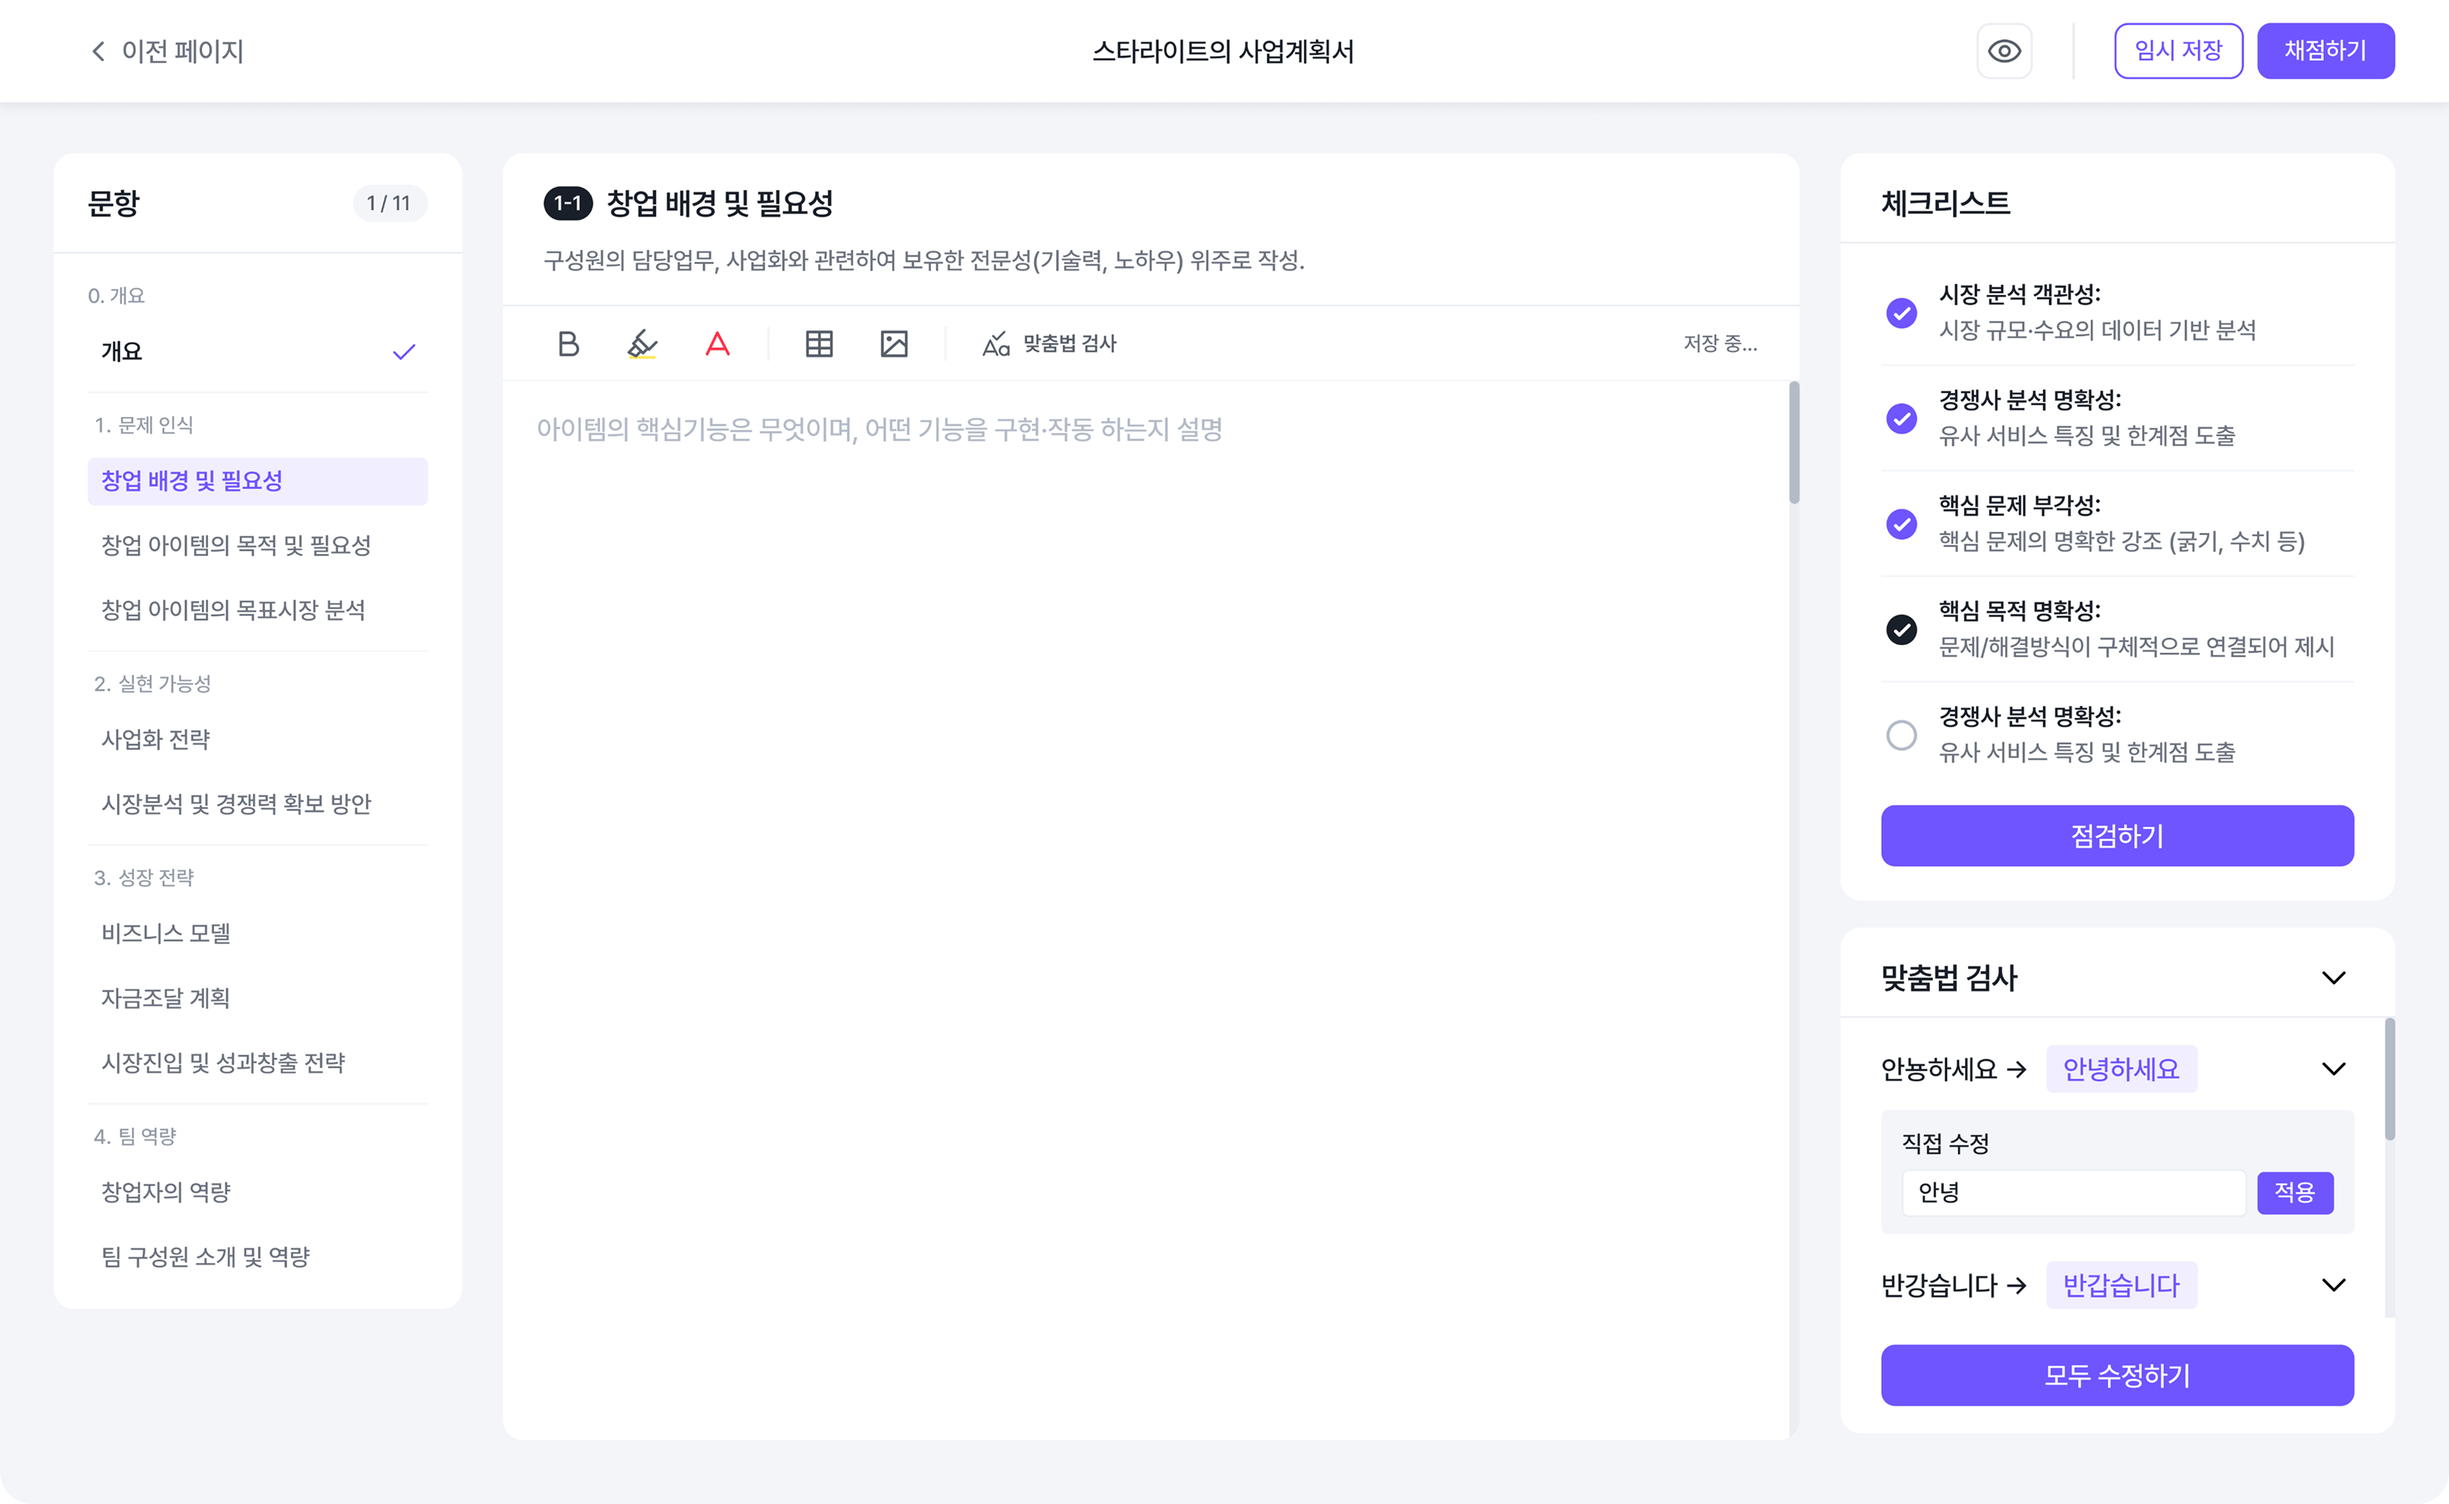
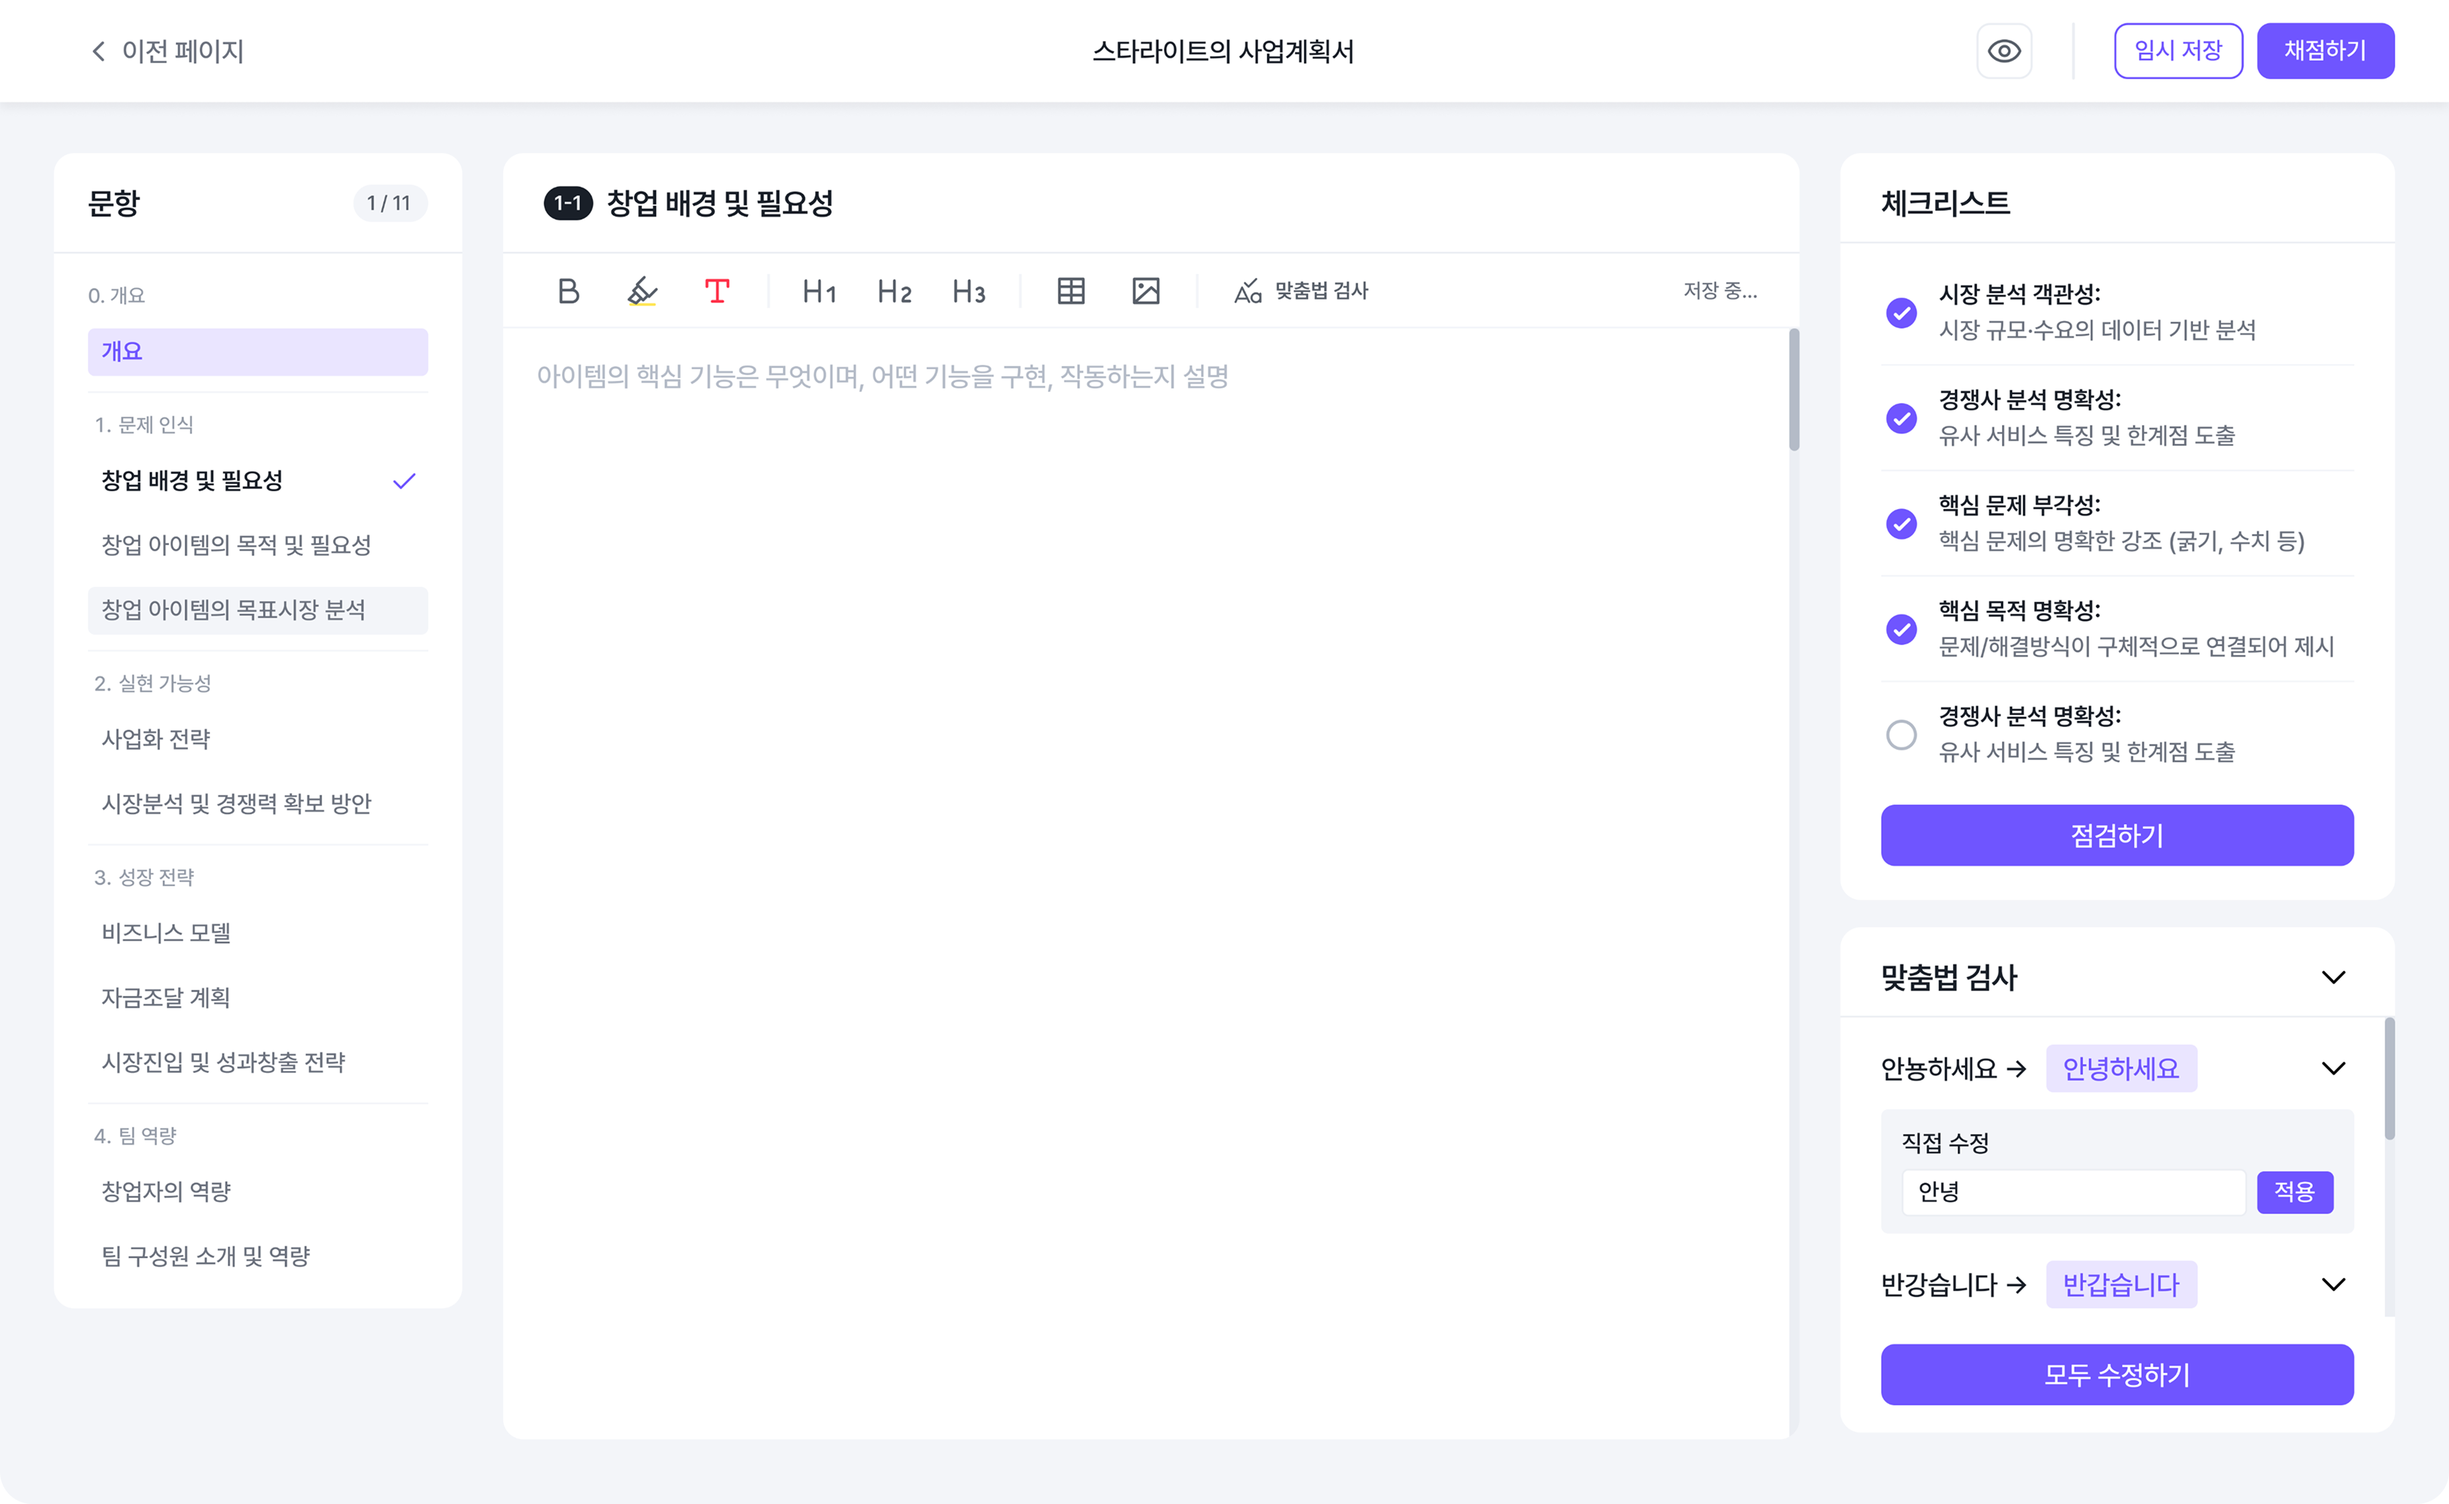
fix: (SRLT-128) 홈화면 이미지 변경 및 pay 텍스트 변경

diff --git a/src/app/expert/components/MentorCard.tsx b/src/app/expert/components/MentorCard.tsx
@@ -1,7 +1,9 @@
 'use client';
+import Button from '@/app/_components/common/Button';
 import { MentorCardProps } from '@/types/expert/expert.props';
 import Image from 'next/image';
 import { useRouter } from 'next/navigation';
+import WhitePlus from '@/assets/icons/white_plus.svg';
 
 type ExtraProps = {
   onApplied?: () => void;
@@ -12,7 +14,7 @@ const MentorCard = ({
   careers,
   tags,
   image,
-  workingperiod,
+  oneLineIntroduction,
   id,
 }: MentorCardProps & ExtraProps) => {
   const router = useRouter();
@@ -23,8 +25,7 @@ const MentorCard = ({
 
   return (
     <div
-      onClick={handleCardClick}
-      className="bg-gray-80 flex w-full cursor-pointer flex-row items-start justify-between gap-6 rounded-xl p-9 transition-opacity hover:opacity-80"
+      className="bg-gray-80 flex w-full cursor-pointer flex-row items-start justify-between gap-6 rounded-xl px-9 py-[42px] transition-opacity hover:opacity-80 max-h-[200px]"
     >
       <div className="flex flex-row gap-6">
         <Image
@@ -44,13 +45,13 @@ const MentorCard = ({
             </div>
             <div className="h-3 w-px bg-gray-300" />
             <div className="ds-subtext font-medium text-gray-700">
-              {workingperiod}년 경력
+              {oneLineIntroduction}
             </div>
           </div>
-          <div className="ds-subtext my-3 font-medium text-gray-600">
+          <div className="ds-subtext mt-3 font-medium text-gray-600 max-w-[780px] line-clamp-1 text-ellipsis">
             {careers.map((career) => career.careerTitle).join(' / ')}
           </div>
-          <div className="flex w-full flex-wrap gap-1.5">
+          <div className="flex w-full flex-wrap gap-1.5 mt-4">
             {tags.map((tag, i) => (
               <div
                 key={`${name}-tag-${tag}-${i}`}
@@ -64,7 +65,17 @@ const MentorCard = ({
           </div>
         </div>
       </div>
+
+      <Button
+          text="전문가 연결"
+          icon={<WhitePlus />}
+          iconPosition="left"
+          size="M"
+          className="rounded-lg gap-1 px-3 py-2 w-[156px] h-[39px]"
+         onClick={handleCardClick}
+        />
     </div>
+
   );
 };
 

diff --git a/src/app/_components/landing/LandingPaySection.tsx b/src/app/_components/landing/LandingPaySection.tsx
@@ -35,7 +35,7 @@ const LandingPaySection = () => {
       </div>
 
       <div className="mt-[56px] flex flex-row items-center justify-center gap-6">
-        <div className="flex w-[456px] flex-col items-center">
+        <div className="flex w-[468px] flex-col items-center">
           <div className="inline-flex w-full items-center justify-center rounded-t-2xl bg-gray-300 py-3">
             <p className="text-[20px] font-medium text-gray-700">
               시간당 대면 멘토링
@@ -57,10 +57,10 @@ const LandingPaySection = () => {
               </p>
             </div>
 
-            <div className="ds-subtitle mt-3 flex w-full flex-col gap-[6px] px-6 font-medium text-gray-900">
-              <li>사업계획서 PDF/텍스트 기반 심층 검토</li>
-              <li>강·약점 구체 코멘트</li>
-              <li>AI 리포트 무제한 포함</li>
+            <div className="ds-subtitle mt-3 flex w-full flex-col gap-[6px] pl-6 font-medium text-gray-700">
+              <li>멘토의 사전 문서 검토 부족으로 인한 시간 소요</li>
+              <li>멘토링 시간 대비 핵심 피드백 시간 부족</li>
+              <li>높은 비용 대비 얻는 피드백의 효율이 낮음</li>
             </div>
           </div>
         </div>

diff --git a/src/app/_components/common/Button.tsx b/src/app/_components/common/Button.tsx
@@ -2,7 +2,7 @@ import React from 'react';
 
 interface ButtonProps {
   text: string;
-  icon?: React.ReactNode; // ← 아이콘 추가
+  icon?: React.ReactNode; 
   size?: 'S' | 'M' | 'L';
   color?: 'primary' | 'secondary' | string;
   rounded?: string;
@@ -10,6 +10,7 @@ interface ButtonProps {
   className?: string;
   disabled?: boolean;
   type?: 'button' | 'submit' | 'reset';
+  iconPosition?: 'left' | 'right' | string;
 }
 
 function Button({
@@ -17,6 +18,7 @@ function Button({
   icon,
   size = 'M',
   color = 'primary',
+  iconPosition = 'right',
   rounded = '',
   onClick,
   className = '',
@@ -59,8 +61,9 @@ function Button({
       disabled={disabled}
       className={`flex items-center justify-center rounded-[8px] font-medium transition ${paddingClasses[size]} ${textClass} ${colorClasses} ${rounded} ${className} ${disabled ? 'cursor-not-allowed opacity-50' : 'cursor-pointer'} `}
     >
+        {icon && iconPosition === 'left' && <span className="flex items-center">{icon}</span>}
       <span>{text}</span>
-      {icon && <span className="flex items-center">{icon}</span>}
+        {icon && iconPosition === 'right' && <span className="flex items-center">{icon}</span>}
     </button>
   );
 }

diff --git a/src/types/expert/expert.props.ts b/src/types/expert/expert.props.ts
@@ -11,6 +11,7 @@ export interface MentorProps {
   tags: string[];
   categories: string[];
   workingperiod: number;
+  oneLineIntroduction: string;
 }
 
 export interface MentorCardProps {
@@ -21,6 +22,7 @@ export interface MentorCardProps {
     orderIndex: number;
     careerTitle: string;
   }[];
+  oneLineIntroduction: string;
   tags: string[];
   workingperiod: number;
   status: 'active' | 'done';
@@ -36,4 +38,5 @@ export const adaptMentor = (e: getExpertResponse) => ({
     .map(mappingKorea)
     .filter(Boolean) as TabLabel[],
   workingperiod: e.workedPeriod,
+  oneLineIntroduction: e.oneLineIntroduction,
 });

diff --git a/src/app/globals.css b/src/app/globals.css
@@ -7,7 +7,7 @@
 
 @theme inline {
   /* Colors */
-  --color-primary-50: #f8f6ff;
+  --color-primary-50: #eae5ff;
   --color-primary-100: #d2caff;
   --color-primary-200: #bdb1ff;
   --color-primary-300: #9f8dff;
